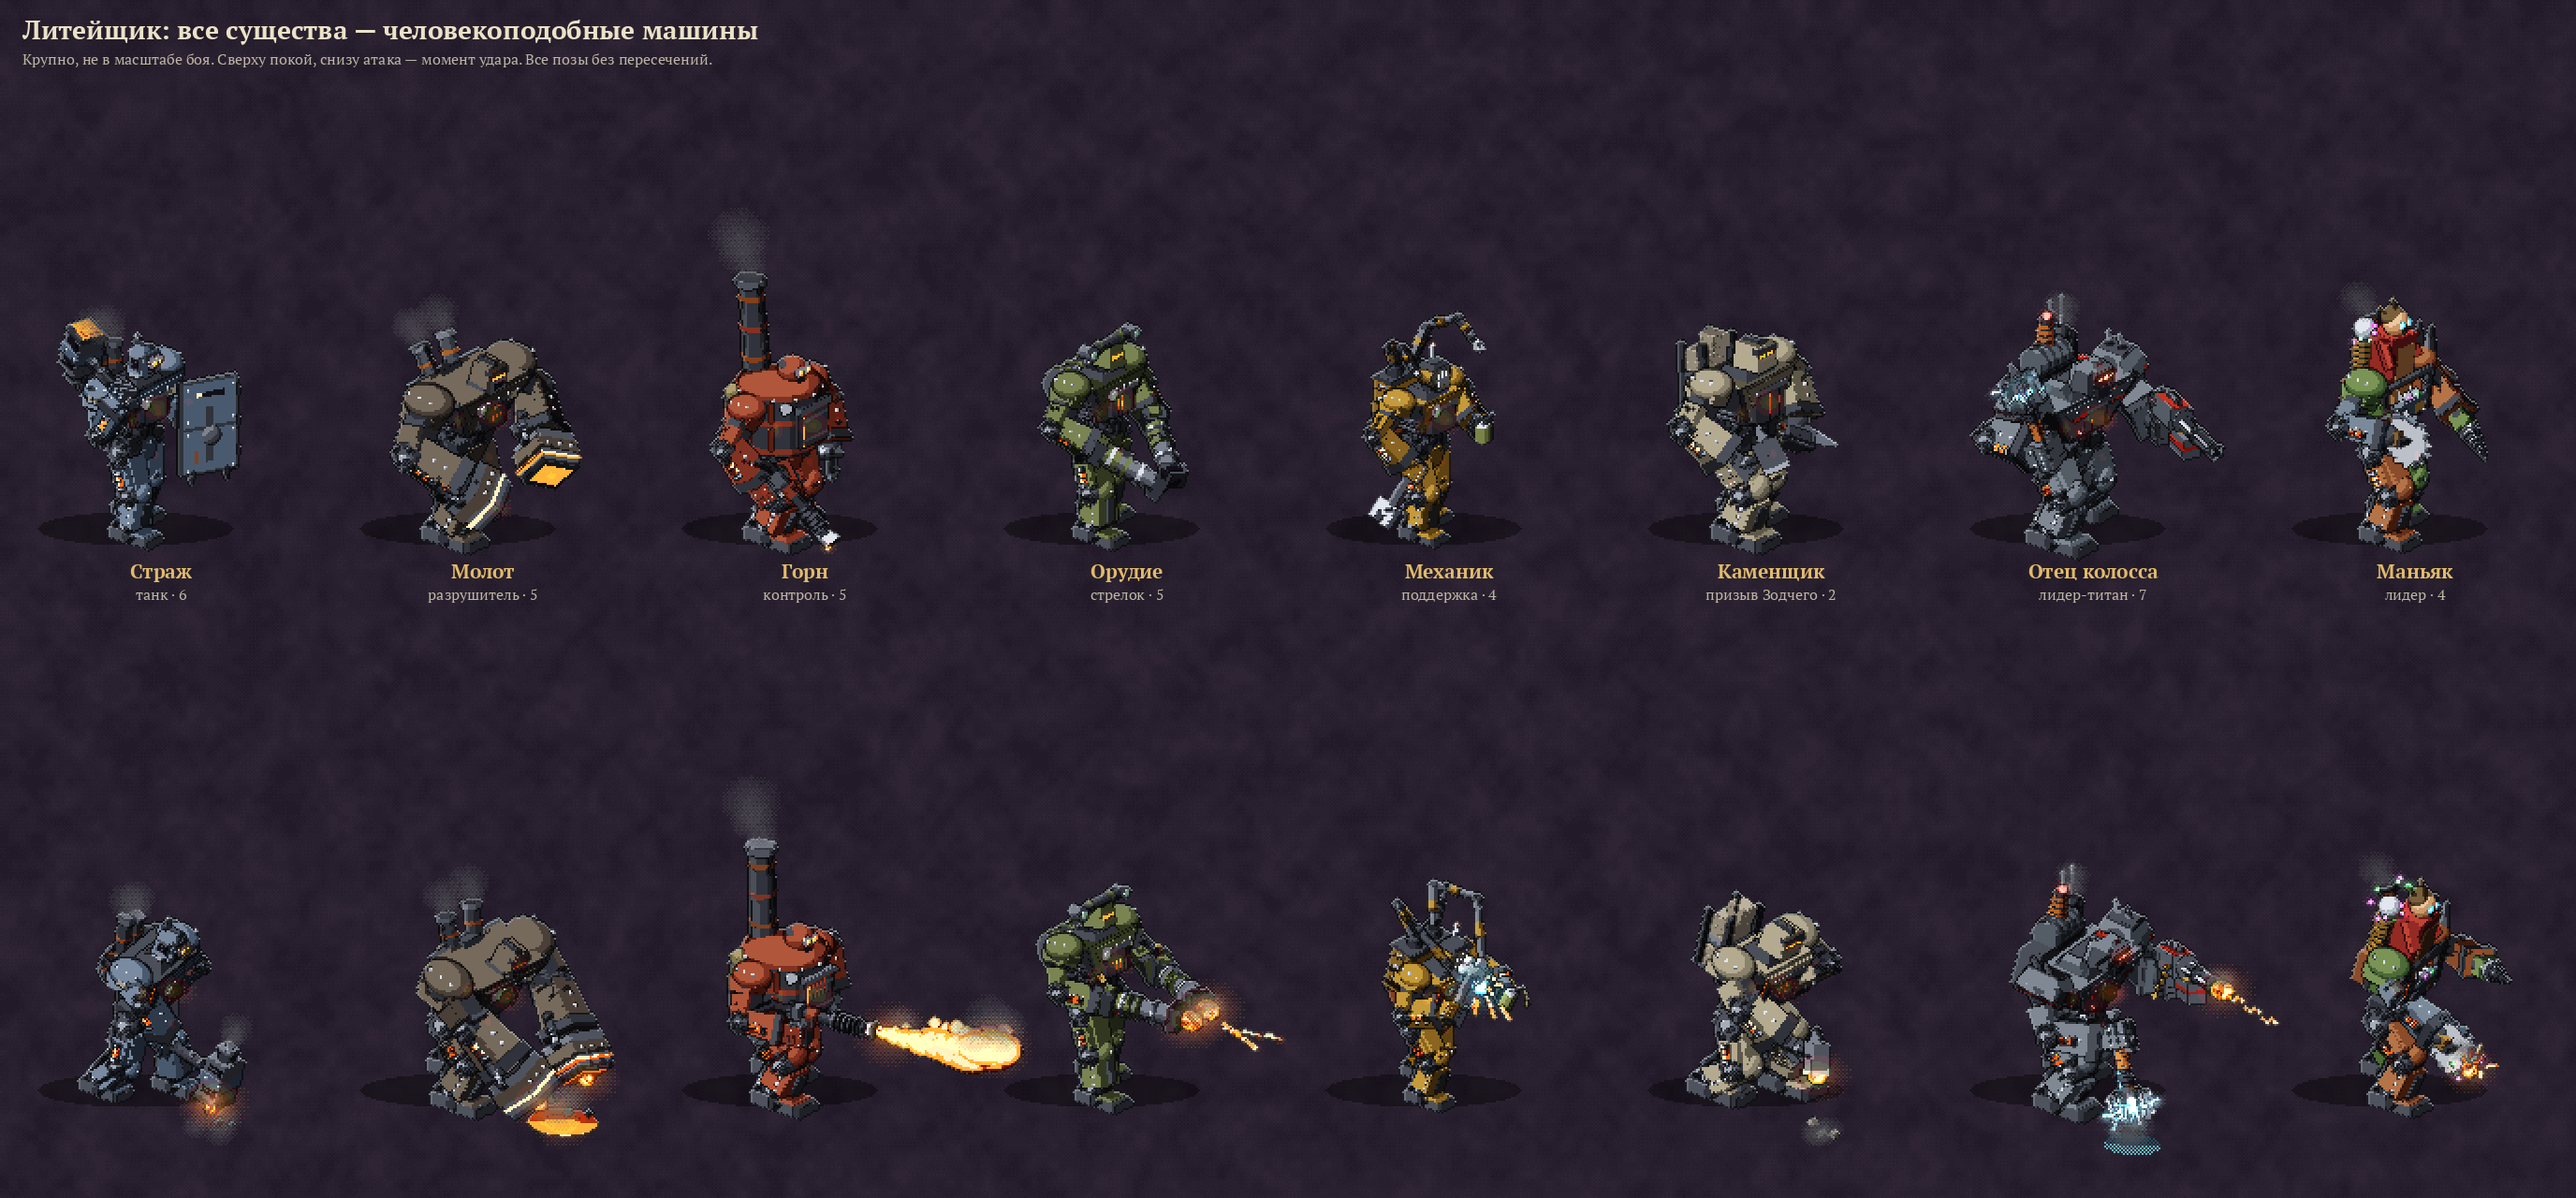
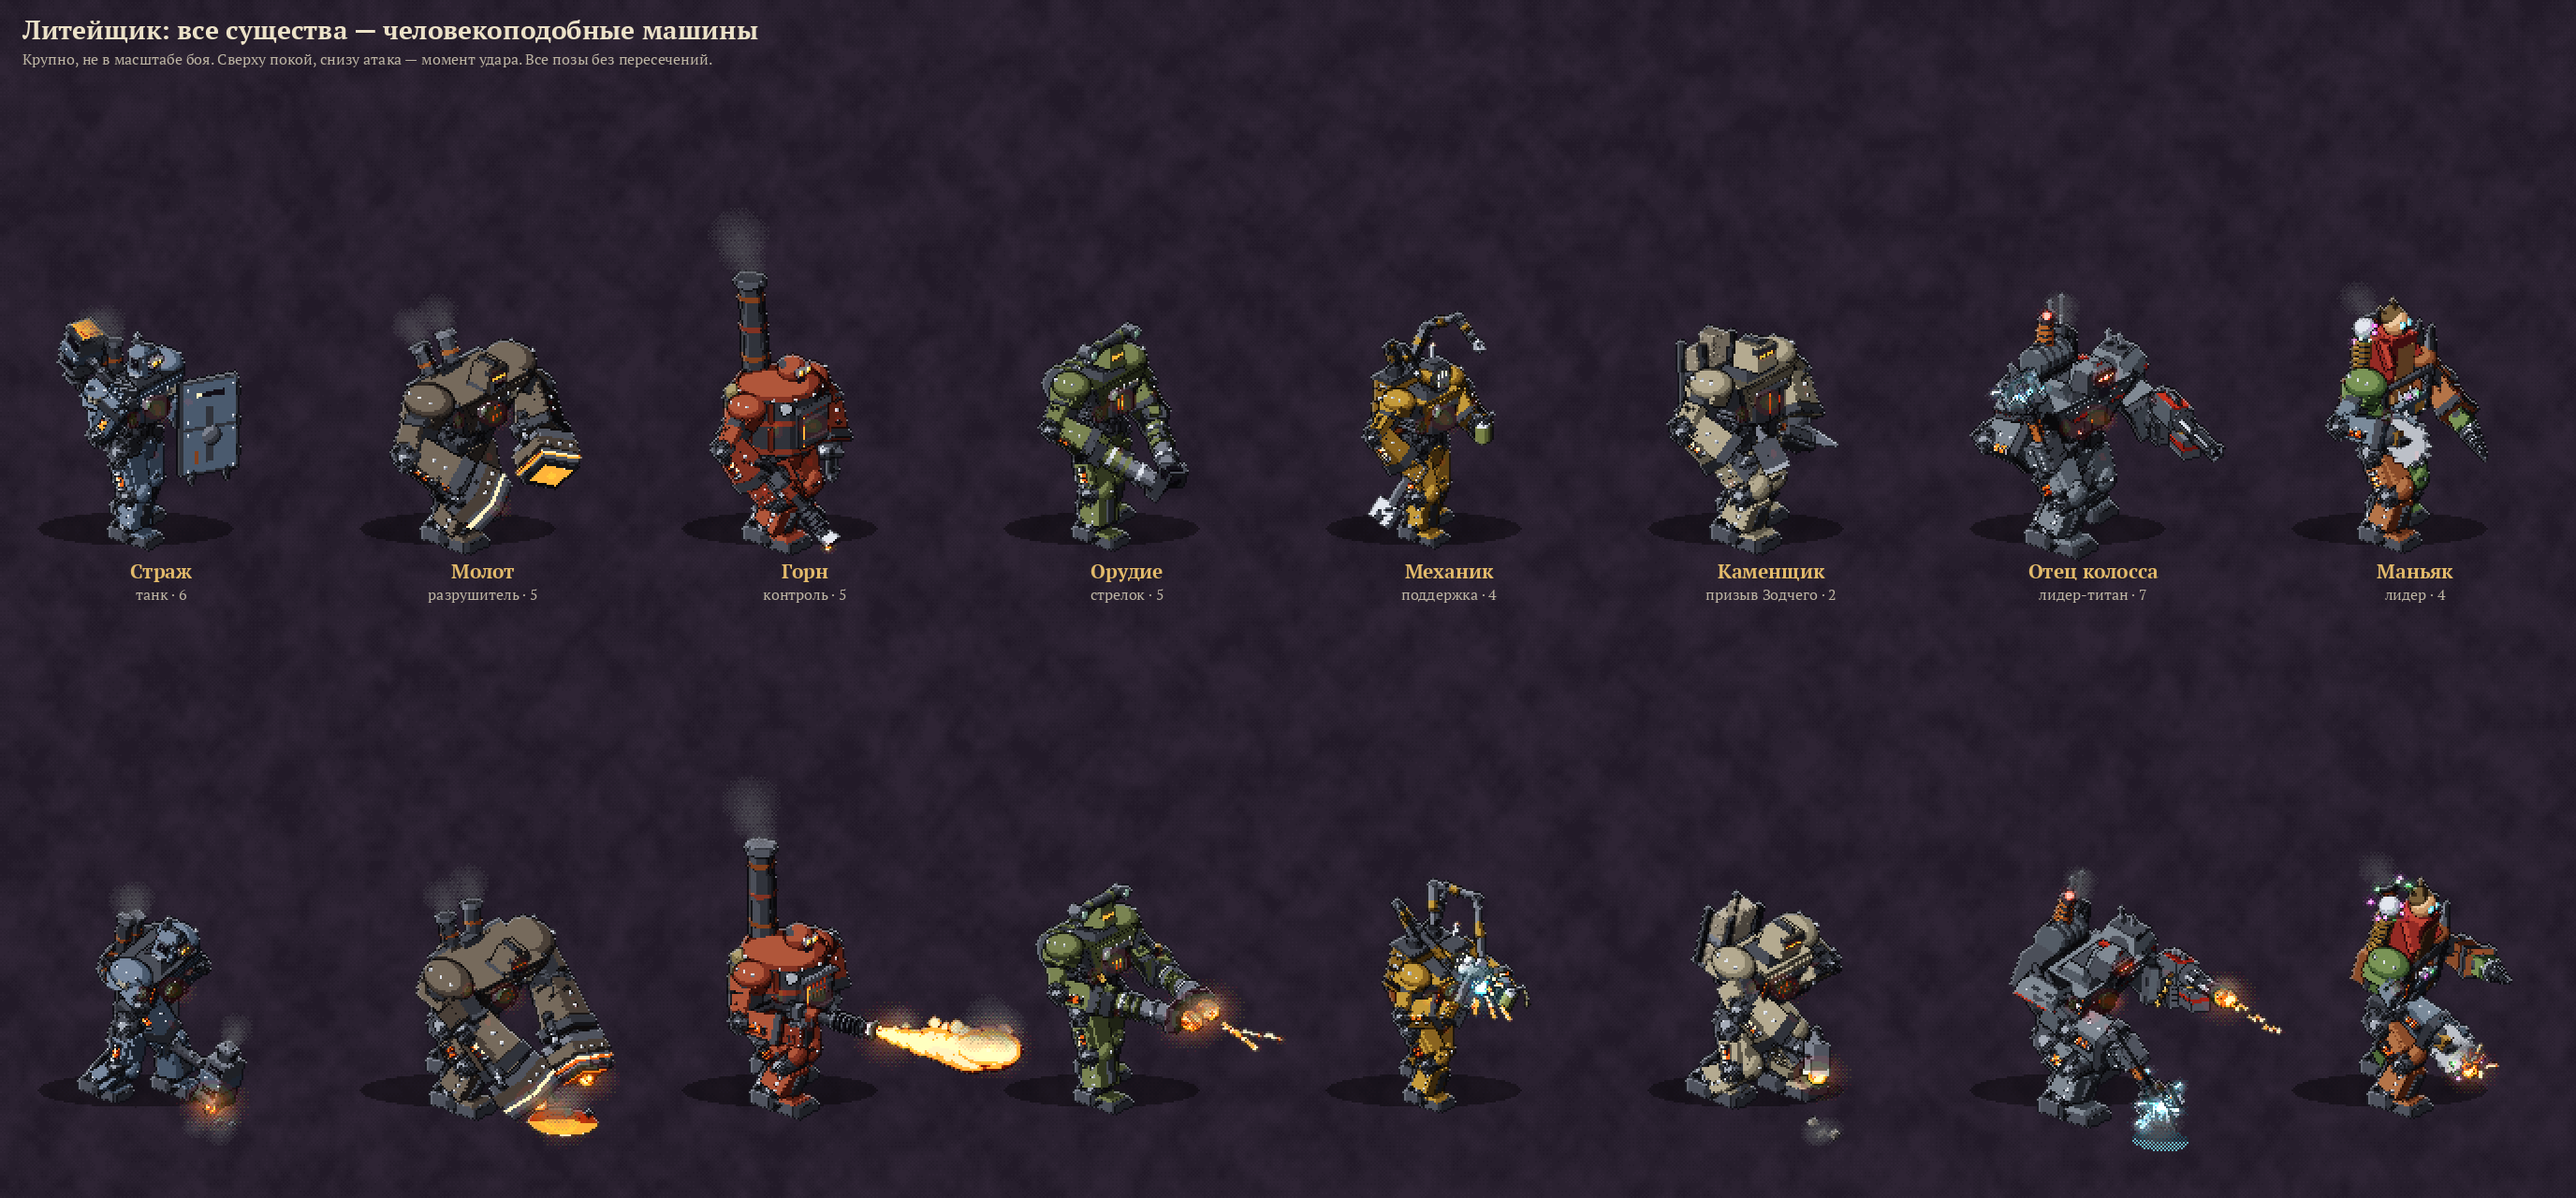
Отец колосса: удар булавой сверху вниз, чуть наискосок
Новая поза атаки — момент удара после замаха сверху: корпус подан вперёд, ближнее плечо
выведено в удар, рука почти прямая вперёд-вниз, булава продолжает её линию и идёт вниз-вперёд
поперёк тела; головка в цели на высоте врага, молния в землю. Для этого удара кисть
доворачивается сильнее (рукоять до 40° к предплечью), навершие при этом руку не задевает.
Все позы без пересечений.

Claude-Session: https://claude.ai/code/session_01Bh6a99SKMjjKSinDnrtssC

Changed region(s): [[0.7812, 0.7188, 0.875, 0.9688], [0.875, 0.8438, 0.9062, 0.875]]

diff --git a/tools/sprites/golems_h.py b/tools/sprites/golems_h.py
@@ -933,7 +933,7 @@ def col_torso(G, P, S):
 
 def shock_mace(G, side, sh, el, w, s, P, A, S):
     """An electric mace: a long haft with a copper coil, a flanged head on an insulated collar, arcs."""
-    u = grip_dir(w - el, arr(A.get("mace_dir", (0.0, 1.0, 0.0))))
+    u = grip_dir(w - el, arr(A.get("mace_dir", (0.0, 1.0, 0.0))), least=A.get("grip_least", 72.0))
     hand, h, u = fist(G, "hand_" + side, w, w - el, u, s, P, th=1.5)
     g = G["item_" + side]
     e1 = unit(np.cross(u, arr((0, 0, 1.0)))) if abs(u[2]) < 0.95 else arr((1.0, 0, 0))
@@ -964,7 +964,7 @@ def shock_mace(G, side, sh, el, w, s, P, A, S):
         q = p + r * 1.3 + u * rnd.uniform(-1.0, 1.0)
         g.cyl(p, q, 0.18, ARC, seg=4)
         g.cyl(q, q + r * 1.0 + e1 * rnd.uniform(-0.8, 0.8), 0.15, ARC, seg=4)
-    return dict(head=c, u=u, tip=c + u * 7.4, hand=hand)
+    return dict(head=c, u=u, tip=c + u * 7.4, hand=hand, d=unit(w - el), el=el)
 
 
 def minigun(G, side, sh, el, w, s, P, A, S):
@@ -1049,8 +1049,10 @@ COLOSSUS = dict(
         idle=dict(lean=-0.06, t=(0.0, 0.0, 0.0), ank=((3.6, 3.6, 9.4), (-5.0, 3.6, -9.4)),
                   hand_n=(9.0, -4.0, 9.0), pole_n=(-1.0, -0.1, 0.5), mace_dir=(-0.2, 1.0, 0.3), ram_n="back",
                   hand_f=(10.0, -11.0, -1.0), pole_f=(-0.8, -0.4, -0.6), ram_f="back"),
-        attack=dict(lean=-0.2, twist=-0.12, t=(1.4, -1.8, 0.0), ank=((5.5, 3.6, 9.6), (-6.5, 3.6, -9.4)),
-                    hand_n=(15.0, -9.0, -2.0), pole_n=(0.0, -1.0, 0.8), mace_dir=(0.6, -0.8, 0.0), ram_n="front",
+        # an overhead blow coming down a little across the body: the arm straight, the mace in line with it
+        attack=dict(lean=-0.28, twist=-0.09, t=(0.6, -3.25, 0.0), ank=((8.4, 3.6, 10.7), (-5.2, 3.6, -10.4)),
+                    hand_n=(19.6, -8.6, -1.1), pole_n=(-0.86, -0.14, 0.34), mace_dir=(0.3, -0.84, -0.37), grip_least=40.0,
+                    ram_n="back",
                     hand_f=(11.0, -8.0, -1.0), pole_f=(-0.8, -0.4, -0.6), ram_f="back", spin=0.5, fx=True),
     ),
 )
